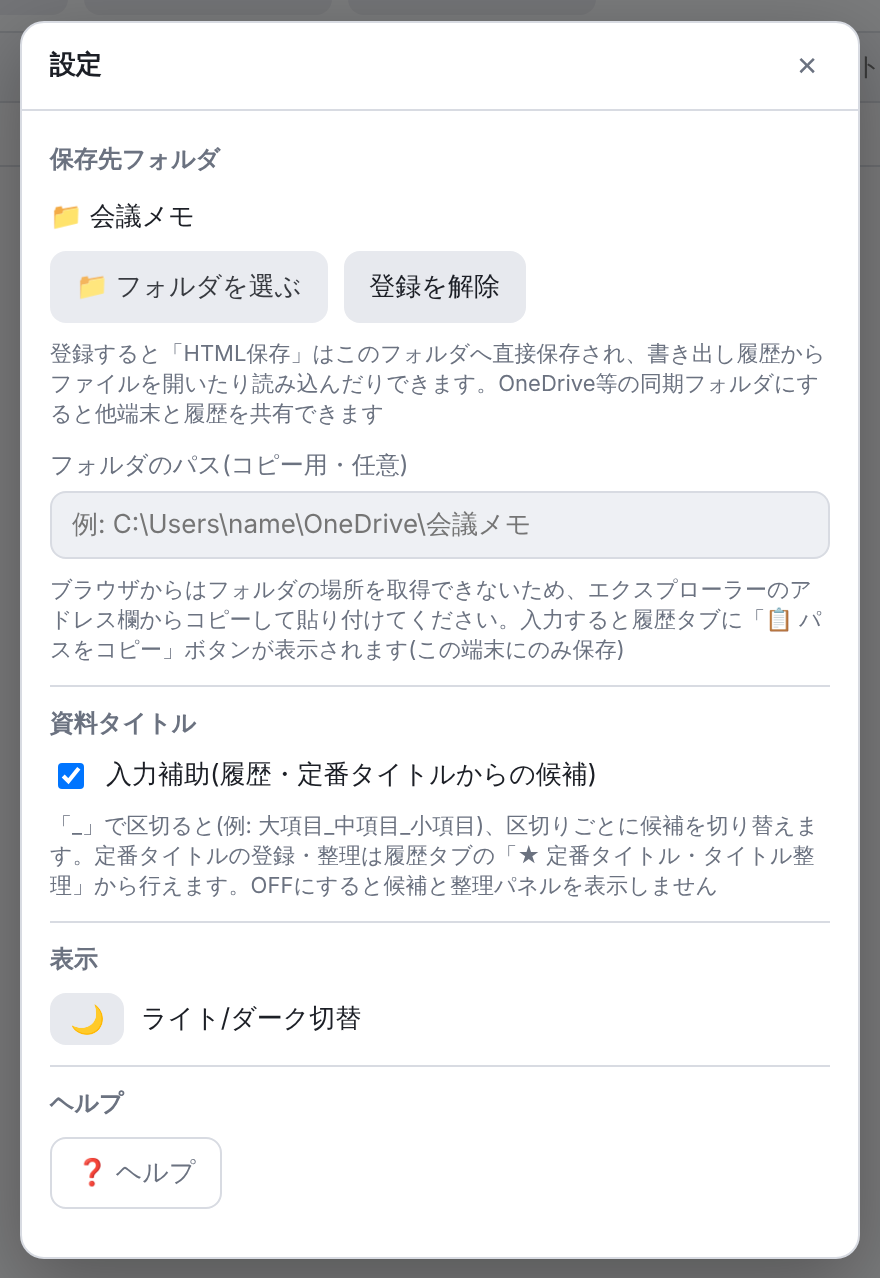
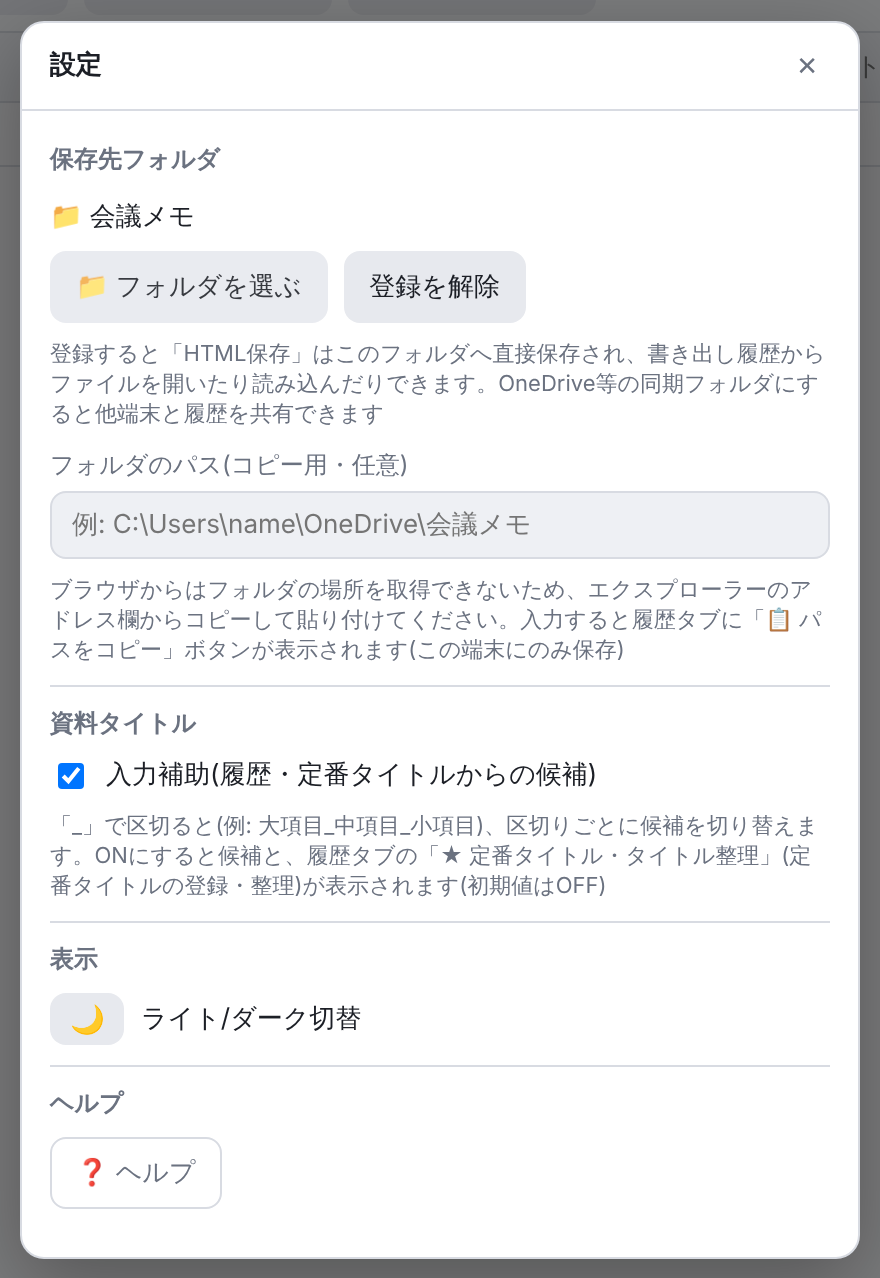
SmartCaptureMemo v04_2026-11-19: 資料タイトルの入力補助の初期値をOFFに
Claude-Session: https://claude.ai/code/session_01YFt5PcScnp5RMTFYd4nYm6

Changed region(s): [[0.0614, 0.6408, 0.8591, 0.7019], [0.8898, 0.6408, 0.9205, 0.7019]]

diff --git a/SmartCaptureMemo/help.html b/SmartCaptureMemo/help.html
@@ -347,7 +347,7 @@
   <h2 id="list-ops">保存とその他の操作</h2>
   <ul>
     <li><strong>日付・資料タイトル</strong>: 書き出すHTMLのタイトルとファイル名(<code>日付_資料タイトル.html</code>)に使われます。前回の値は保持されます。</li>
-    <li><strong>資料タイトルの入力候補</strong>: 1文字入力すると、これまでに書き出したタイトルと<a href="#history">定番タイトル</a>から候補が出ます。「_」で区切って <code>大項目_中項目_小項目</code> のように付けると、区切りごとに候補が切り替わります(例: <code>DD_</code> と入力すると、DDの後ろに使った中項目が出ます)。<kbd>↑</kbd><kbd>↓</kbd>で選んで <kbd>Enter</kbd> / <kbd>Tab</kbd> で確定(大・中項目は確定すると「_」が付いて次の項目へ)、<kbd>Esc</kbd>で閉じます。★は定番タイトルです。名前の付け方は自由で、区切らなくても使えます。不要なら⚙設定でOFFにできます。</li>
+    <li><strong>資料タイトルの入力候補</strong>: 1文字入力すると、これまでに書き出したタイトルと<a href="#history">定番タイトル</a>から候補が出ます。「_」で区切って <code>大項目_中項目_小項目</code> のように付けると、区切りごとに候補が切り替わります(例: <code>DD_</code> と入力すると、DDの後ろに使った中項目が出ます)。<kbd>↑</kbd><kbd>↓</kbd>で選んで <kbd>Enter</kbd> / <kbd>Tab</kbd> で確定(大・中項目は確定すると「_」が付いて次の項目へ)、<kbd>Esc</kbd>で閉じます。★は定番タイトルです。名前の付け方は自由で、区切らなくても使えます。<strong>初期値はOFF</strong>なので、使うときは⚙設定の「資料タイトル」で入力補助をONにしてください。</li>
     <li><strong>💾 HTML保存</strong>: 記録一覧を画像込みの1つのHTMLファイルとして書き出します。<a href="#settings">保存先フォルダ</a>を登録していればそのフォルダへ直接保存し(同名ファイルがあれば上書き確認)、未登録なら通常のダウンロードになります。保存すると<a href="#history">書き出し履歴</a>に記録されます。</li>
     <li><strong>⋯ メニュー</strong>
       <ul>
@@ -383,7 +383,7 @@
     <li><strong>📥 読み込む</strong>: そのファイルを記録一覧の末尾に読み込み、記録タブへ移ります。</li>
     <li><strong>✏ 名前を変更</strong>: 新しいタイトルを入力して Enter(または「変更」)で、ファイル名とファイル内の資料タイトル(ブラウザのタブ名・見出し・📥読み込み時のタイトル)をまとめて変更します。日付部分はそのまま残ります。入力中は資料タイトルと同じ候補が出ます。同じ名前のファイルがあるときは上書きするか確認します。同じファイル名の履歴(折りたたみ分も)と保存先フォルダの履歴ファイルも新しい名前に更新され、名前を変えた行には「旧名」の印が付き、マウスを乗せると変更前の名前を確認できます。PCのEdge/Chromeではファイルの名前変更として処理され、OneDrive等のバージョン履歴も引き継がれます(名前変更に対応していない環境では、新しい名前で保存してから元のファイルを削除します)。</li>
     <li><strong>⚠</strong>: ファイル名とファイル内の資料タイトル・日付が違う(エクスプローラー等で名前を変えた)ファイルに付きます。マウスを乗せると違う項目が表示され、✏で名前を変更すると揃います。</li>
-    <li><strong>★ 定番タイトル・タイトル整理</strong>: 押すと開き、これまでのタイトルを 大項目 / 中項目 / 小項目 の列で表示します。項目を選ぶと履歴をそのタイトルで絞り込み(もう一度押すか「解除」で戻す)、表記のばらつきを見つけて✏でそのまま直せます。☆を押すと定番タイトルに登録され、資料タイトルの入力候補の上位に出ます(途中までの「DD_週次」なども登録可。端末ごとに保存)。</li>
+    <li><strong>★ 定番タイトル・タイトル整理</strong>(⚙設定で入力補助をONにしたときに表示): 押すと開き、これまでのタイトルを 大項目 / 中項目 / 小項目 の列で表示します。項目を選ぶと履歴をそのタイトルで絞り込み(もう一度押すか「解除」で戻す)、表記のばらつきを見つけて✏でそのまま直せます。☆を押すと定番タイトルに登録され、資料タイトルの入力候補の上位に出ます(途中までの「DD_週次」なども登録可。端末ごとに保存)。</li>
     <li><strong>📋 パスをコピー</strong>: ⚙設定で「フォルダのパス」を入力しておくと表示されます。エクスプローラーのアドレス欄に貼り付けて Enter で、保存先フォルダを開けます(ブラウザからはフォルダを直接開けないため)。</li>
     <li><strong>📂 フォルダから追加</strong>: 保存先フォルダにあるHTMLのうち、履歴に無いもの(旧ツールや別の方法で保存したファイルなど)を履歴に追加します。資料の日付はファイル内の日付 → ファイル名の日付 → ファイルの保存日時 の順で、タイトル・件数はファイルの中身から読み取ります。このツール(旧Screen Capture Memoを含む)で書き出したHTML以外は対象外です。</li>
     <li><strong>🧹(右端)</strong>: 保存先フォルダに見つからない(取り消し線の)履歴があるときだけ表示されます。確認のうえ、その履歴をまとめて削除します(ファイルは削除しません)。</li>
@@ -399,7 +399,7 @@
     <li><strong>保存先フォルダ</strong>: 「📁 フォルダを選ぶ」で登録すると、HTML保存がそのフォルダへの直接保存になり、履歴からファイルを開く・読み込むことができます。OneDrive等の同期フォルダにすると、他の端末とも書き出し履歴を共有できます。</li>
     <li>保存・同期のときに、ブラウザが「このフォルダへのアクセスを許可しますか」と確認することがあります。「毎回許可する」を選ぶと、以降は確認が出なくなります。</li>
     <li><strong>フォルダのパス(任意)</strong>: エクスプローラーのアドレス欄からコピーした保存先フォルダのパスを貼り付けておくと、履歴タブの「📋 パスをコピー」で呼び出せます。端末ごとに保存されます。</li>
-    <li><strong>資料タイトル</strong>: 資料タイトルの入力補助(履歴・定番タイトルからの候補)のON/OFFです。OFFにすると、入力候補と履歴タブの「★ 定番タイトル・タイトル整理」を表示しません。</li>
+    <li><strong>資料タイトル</strong>: 資料タイトルの入力補助(履歴・定番タイトルからの候補)のON/OFFです(初期値はOFF)。ONにすると、入力候補と履歴タブの「★ 定番タイトル・タイトル整理」が表示されます。</li>
     <li><strong>表示</strong>: ライト/ダークを切り替えます。</li>
     <li><strong>ヘルプ</strong>: このページを表示します。</li>
   </ul>

diff --git a/SmartCaptureMemo/index.html b/SmartCaptureMemo/index.html
@@ -761,7 +761,7 @@
       <section class="setSec">
         <h3>資料タイトル</h3>
         <label class="setCheck"><input type="checkbox" id="titleAssistToggle"> 入力補助(履歴・定番タイトルからの候補)</label>
-        <div class="hint">「_」で区切ると(例: 大項目_中項目_小項目)、区切りごとに候補を切り替えます。定番タイトルの登録・整理は履歴タブの「★ 定番タイトル・タイトル整理」から行えます。OFFにすると候補と整理パネルを表示しません</div>
+        <div class="hint">「_」で区切ると(例: 大項目_中項目_小項目)、区切りごとに候補を切り替えます。ONにすると候補と、履歴タブの「★ 定番タイトル・タイトル整理」(定番タイトルの登録・整理)が表示されます(初期値はOFF)</div>
       </section>
       <section class="setSec">
         <h3>表示</h3>
@@ -4376,7 +4376,7 @@
     ["v03_2026-11-19.12","⋯メニューの項目を左寄せに"],
     ["v03_2026-11-19.13","「前回と同じ画面」の知らせを短くし、📸ボタンの下に重ねて表示(ボタン等の位置がずれないように)"],
     ["v03_2026-11-19.14","メモの装飾ツールバーに「🧹 クリア」(書式をまとめて外す)を追加"],
-    ["v04_2026-11-19",["資料タイトルの入力候補(「_」区切りごとに大項目→中項目→小項目、履歴と定番タイトルから。⚙設定でON/OFF)","履歴タブに「★ 定番タイトル・タイトル整理」(カラムビューで絞り込み・定番登録)","履歴の✏で名前を変更(ファイル名とファイル内の資料タイトルをまとめて変更、旧名を記録)","履歴の日付を資料の日付に(並び順・期間フィルタも)。保存日時はマウスを乗せると表示、上書き保存は「N版」で折りたたみ","ファイル名とファイル内の情報がずれている行に⚠、見つからない履歴の一括削除(🧹)"]]
+    ["v04_2026-11-19",["資料タイトルの入力候補(「_」区切りごとに大項目→中項目→小項目、履歴と定番タイトルから。⚙設定でON、初期値OFF)","履歴タブに「★ 定番タイトル・タイトル整理」(カラムビューで絞り込み・定番登録)","履歴の✏で名前を変更(ファイル名とファイル内の資料タイトルをまとめて変更、旧名を記録)","履歴の日付を資料の日付に(並び順・期間フィルタも)。保存日時はマウスを乗せると表示、上書き保存は「N版」で折りたたみ","ファイル名とファイル内の情報がずれている行に⚠、見つからない履歴の一括削除(🧹)"]]
   ];
 
   const verLabel = $("verLabel");
@@ -4754,12 +4754,12 @@
 
   // ---------- 資料タイトル: 入力候補・定番タイトル・タイトル整理・リネーム ----------
   const TITLE_FAV_KEY = "smart-capture-memo-title-favorites"; // 定番タイトル(この端末に保存)
-  const TITLE_ASSIST_KEY = "smart-capture-memo-title-assist"; // 入力補助のON/OFF("0"でOFF)
+  const TITLE_ASSIST_KEY = "smart-capture-memo-title-assist"; // 入力補助のON/OFF("1"でON。初期値はOFF)
   let titleFavorites = [];
   try{ const v = JSON.parse(localStorage.getItem(TITLE_FAV_KEY) || "[]"); if(Array.isArray(v)) titleFavorites = v.filter((x) => typeof x === "string"); }catch(e){}
   function saveTitleFavorites(){ try{ localStorage.setItem(TITLE_FAV_KEY, JSON.stringify(titleFavorites)); }catch(e){} }
-  let titleAssistOn = true;
-  try{ titleAssistOn = localStorage.getItem(TITLE_ASSIST_KEY) !== "0"; }catch(e){}
+  let titleAssistOn = false;
+  try{ titleAssistOn = localStorage.getItem(TITLE_ASSIST_KEY) === "1"; }catch(e){}
 
   // 「大項目_中項目_小項目」に分ける(4つ目以降の「_」は小項目に含める)
   function titleSegs(t){ const p = String(t || "").split("_"); return p.length > 3 ? [p[0], p[1], p.slice(2).join("_")] : p; }
